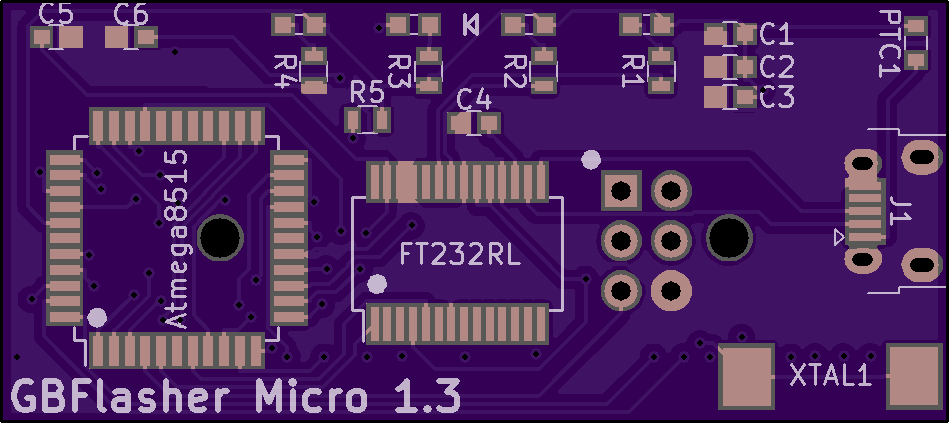
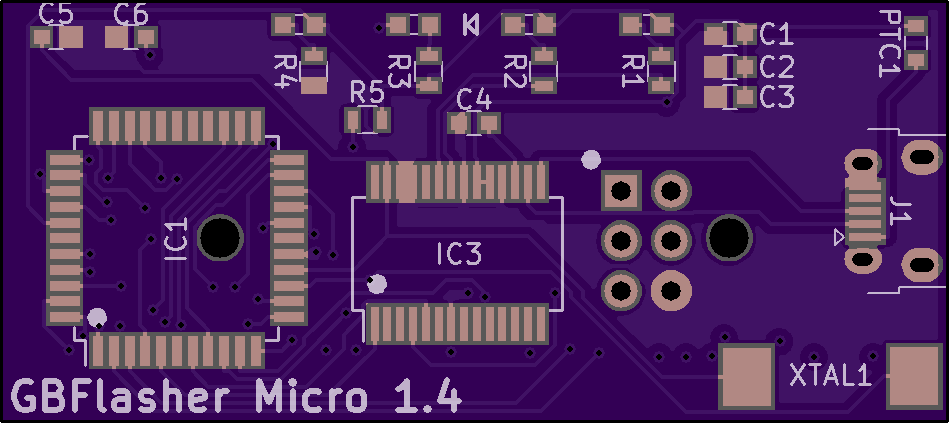
1.4
- Fixed incorrect wiring to crystal

diff --git a/readme.md b/readme.md
@@ -1,7 +1,7 @@
 # The worlds smallest Game Boy cart flasher!
 A clone of [J.Rodrigo's flasher](https://www.tindie.com/products/JRodrigo/cart-flasher-for-gameboy/)
 
-[Purchase on OSHPARK](https://oshpark.com/shared_projects/c9gap1j2)
+[Purchase on OSHPARK](https://oshpark.com/shared_projects/0C5yyQZD)
 
 
 ## Images
